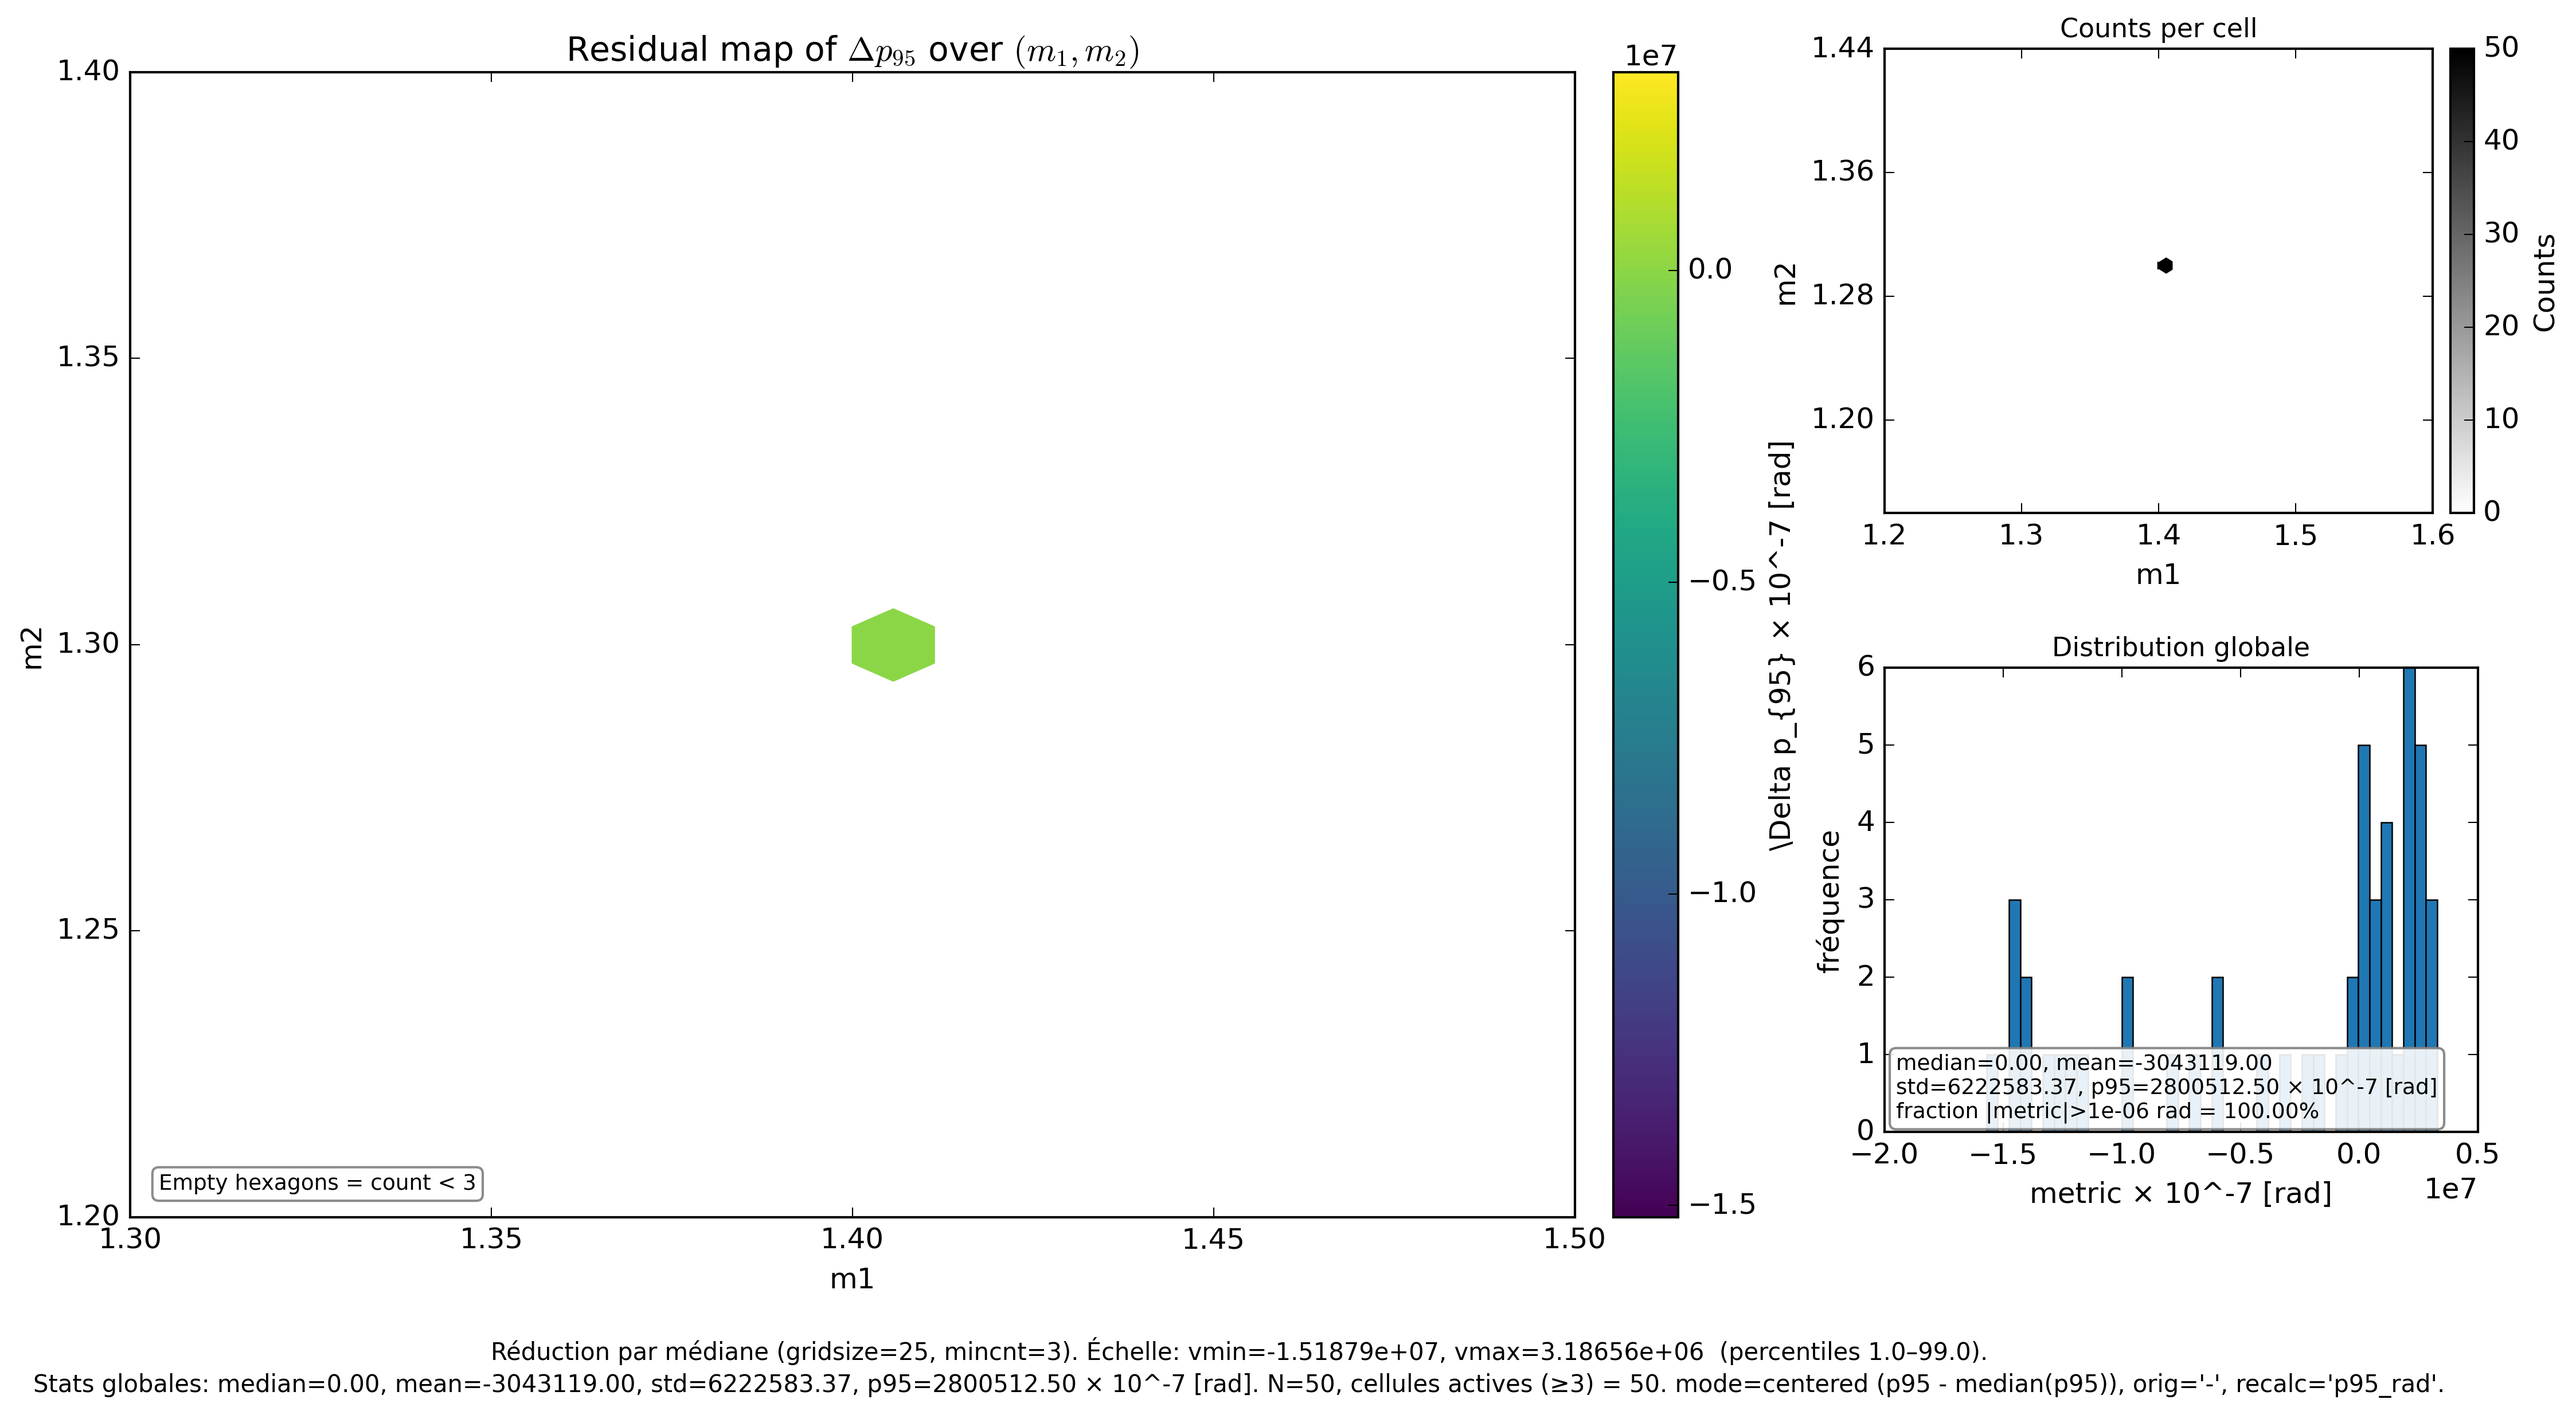
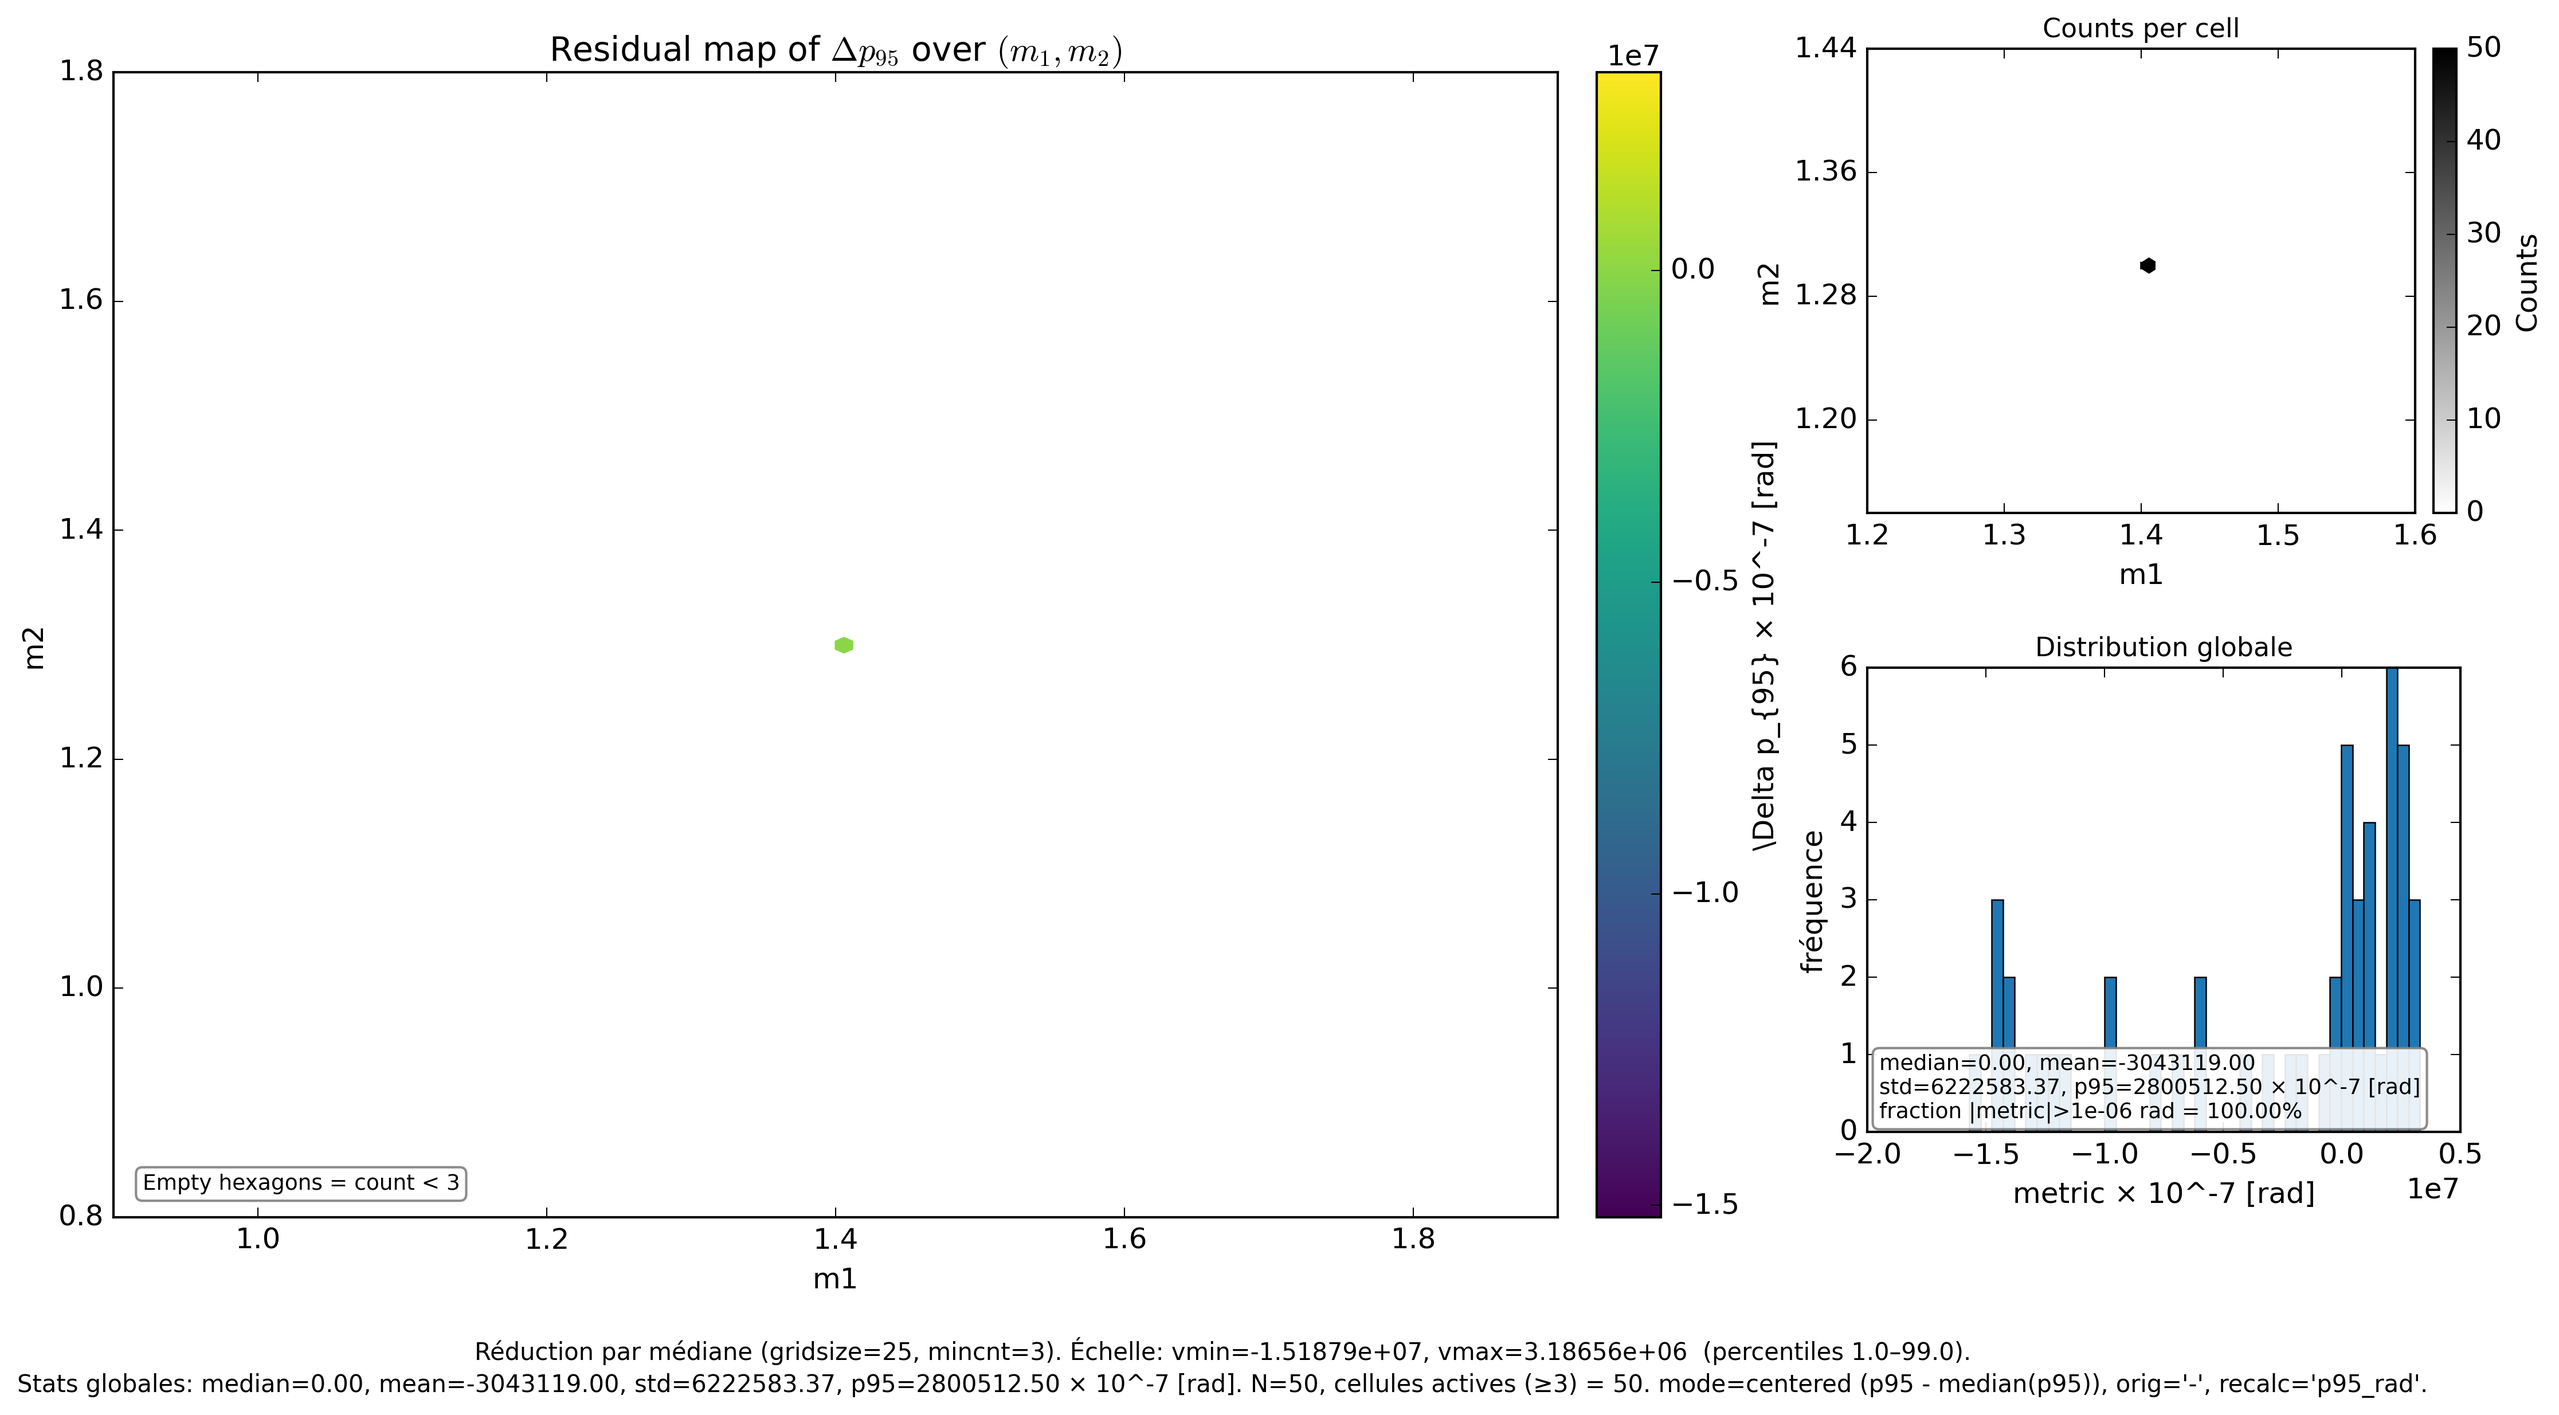
fix(viz): apply radical median-centered zoom for figs 01/06 and split legends for fig 03

diff --git a/zz-scripts/chapter10/10_fig_03_convergence.py b/zz-scripts/chapter10/10_fig_03_convergence.py
@@ -23,6 +23,7 @@ import argparse
 import numpy as np
 import pandas as pd
 import matplotlib.pyplot as plt
+from matplotlib.lines import Line2D
 from mpl_toolkits.axes_grid1.inset_locator import inset_axes
 plt.rcParams.update(
     {
@@ -183,29 +184,55 @@ def main():
     fig, ax = plt.subplots(figsize=(14, 6))
 
     # IC 95% pour la moyenne (zone bleue)
-    ax.fill_between(
+    ci_handle = ax.fill_between(
         N_list, mean_low, mean_high,
         color='tab:blue', alpha=0.18,
         label="95% CI (bootstrap, mean)",
     )
 
     # Estimateurs
-    ax.plot(N_list, mean_est,   color='tab:blue',   lw=2.0, label="Estimator (mean)")
-    ax.plot(N_list, median_est, color='tab:orange', lw=1.6, ls='--', label="Estimator (median)")
-    ax.plot(N_list, tmean_est,  color='tab:green',  lw=1.6, ls='-.',
+    mean_line, = ax.plot(N_list, mean_est,   color='tab:blue',   lw=2.0, label="Estimator (mean)")
+    median_line, = ax.plot(N_list, median_est, color='tab:orange', lw=1.6, ls='--', label="Estimator (median)")
+    tmean_line, = ax.plot(N_list, tmean_est,  color='tab:green',  lw=1.6, ls='-.',
             label=f"Estimator (trimmed mean, α={args.trim:.2f})")
 
     # Ligne de référence (mean plein-échantillon)
-    ax.axhline(ref_mean, color='crimson', lw=2, label=f"Estimate at N={M} (mean ref)")
+    ref_line = ax.axhline(ref_mean, color='crimson', lw=2, label=f"Estimate at N={M} (mean ref)")
 
     ax.set_xlim(0, M)
     ax.set_xlabel(r"Sample Size $N$")
     ax.set_ylabel(f"Estimator of {p95_col} [rad]")
     ax.set_title(f"Convergence of {p95_col} estimation", fontsize=15)
 
-    # Légende
-    leg = ax.legend(loc="lower right", bbox_to_anchor=(0.98, 0.02), frameon=True, fontsize=10)
-    leg.set_zorder(5)
+    # Légendes séparées : courbes à gauche, stats à droite
+    curve_handles = [ci_handle, mean_line, median_line, tmean_line, ref_line]
+    curve_labels = [
+        "95% CI (bootstrap, mean)",
+        "Estimator (mean)",
+        "Estimator (median)",
+        f"Estimator (trimmed mean, α={args.trim:.2f})",
+        f"Estimate at N={M} (mean ref)",
+    ]
+    leg_curves = ax.legend(curve_handles, curve_labels, loc="lower left", frameon=True, fontsize=10)
+    leg_curves.set_zorder(5)
+
+    stats_lines = [
+        f"N = {M}",
+        f"mean = {final_mean:.3f} [{final_mean_ci[0]:.3f}, {final_mean_ci[1]:.3f}]",
+        f"median = {final_median:.3f} [{final_median_ci[0]:.3f}, {final_median_ci[1]:.3f}]",
+        f"trimmed = {final_tmean:.3f} [{final_tmean_ci[0]:.3f}, {final_tmean_ci[1]:.3f}]",
+    ]
+    stats_handles = [Line2D([0], [0], color="none", marker="None", label=txt) for txt in stats_lines]
+    leg_stats = ax.legend(
+        stats_handles,
+        [h.get_label() for h in stats_handles],
+        loc="lower right",
+        bbox_to_anchor=(1.0, 0.0),
+        frameon=True,
+        fontsize=9,
+    )
+    leg_stats.set_zorder(5)
+    ax.add_artist(leg_curves)
 
     # ----- Inset (zoom) : même logique que ta version -----
     base_w, base_h = args.zoom_w, args.zoom_h

diff --git a/zz-scripts/chapter10/10_fig_01_iso_p95_maps.py b/zz-scripts/chapter10/10_fig_01_iso_p95_maps.py
@@ -301,14 +301,15 @@ def main() -> None:
             linewidths=0.45,
             alpha=0.5,
         )
-        # points en overlay noir
-        ax.scatter(
+        # points en overlay noir (taille augmentée pour visibilité)
+        ax.plot(
             x,
             y,
-            c="k",
-            s=3,
-            alpha=0.5,
-            edgecolors="none",
+            "o",
+            ms=8,
+            mfc="none",
+            mec="k",
+            alpha=0.6,
             label="samples",
             zorder=5,
         )
@@ -324,7 +325,7 @@ def main() -> None:
             x,
             y,
             c=z,
-            s=25,
+            s=64,
             cmap=args.cmap,
             norm=norm,
             edgecolors="k",
@@ -340,11 +341,11 @@ def main() -> None:
     ax.set_ylabel(args.m2_col)
     ax.set_title(args.title, fontsize=15)
 
-    # Forcer un cadrage serré sans aspect contraint et filtrer les outliers
+    # Forcer un cadrage serré sans aspect contraint, centré sur la médiane
     ax.set_aspect("auto", adjustable="datalim")
-
-    x_lo, x_hi = np.nanpercentile(x, [2, 98])
-    y_lo, y_hi = np.nanpercentile(y, [2, 98])
+    x_med, y_med = np.nanmedian(x), np.nanmedian(y)
+    x_lo, x_hi = x_med - 0.5, x_med + 0.5
+    y_lo, y_hi = y_med - 0.5, y_med + 0.5
     if x_lo == x_hi:
         x_lo, x_hi = x_lo - 0.1, x_hi + 0.1
     if y_lo == y_hi:

diff --git a/zz-scripts/chapter10/10_fig_06_residual_map.py b/zz-scripts/chapter10/10_fig_06_residual_map.py
@@ -431,8 +431,9 @@ def main() -> None:
     ax_main.set_xlabel("m1")
     ax_main.set_ylabel("m2")
     ax_main.set_aspect("auto", adjustable="datalim")
-    x_lo, x_hi = np.nanpercentile(x, [2, 98])
-    y_lo, y_hi = np.nanpercentile(y, [2, 98])
+    x_med, y_med = np.nanmedian(x), np.nanmedian(y)
+    x_lo, x_hi = x_med - 0.5, x_med + 0.5
+    y_lo, y_hi = y_med - 0.5, y_med + 0.5
     if x_lo == x_hi:
         x_lo, x_hi = x_lo - 0.1, x_hi + 0.1
     if y_lo == y_hi:
